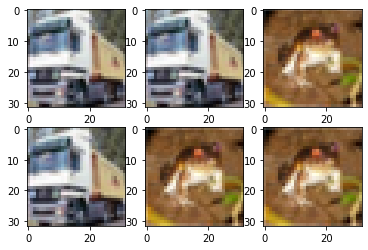
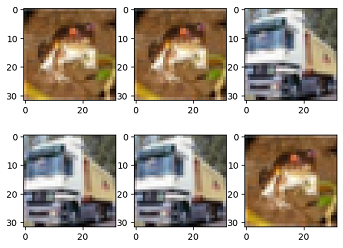
update en files and images in advanced

diff --git a/tutorials/source_en/advanced/dataset/sampler.md b/tutorials/source_en/advanced/dataset/sampler.md
@@ -1,12 +1,12 @@
-# Data Sampling
-
 <a href="https://gitee.com/mindspore/docs/blob/master/tutorials/source_en/advanced/dataset/sampler.md" target="_blank"><img src="https://mindspore-website.obs.cn-north-4.myhuaweicloud.com/website-images/master/resource/_static/logo_source_en.png"></a>
+
+# Data Sampling
 
 To meet training requirements and solve problems such as too large datasets or uneven distribution of sample categories, MindSpore provides multiple samplers for different purposes to help users sample datasets. Users only need to import the sampler object when loading the dataset to implement data sampling.
 
-MindSpore provides multiple samplers, such as `RandomSampler`, `WeightedRandomSampler`, and `SubsetRandomSampler`. In addition, users can customize samplers as required.
+MindSpore provides multiple samplers, such as `RandomSampler`, `WeightedRandomSampler`, and `SubsetRandomSampler`. In addition, users can customize sampler classes as required.
 
-> For details about how to use the sampler, see [API](https://www.mindspore.cn/docs/en/master/api_python/mindspore.dataset.html).
+> For details about how to use the sampler, see [Sampler API](https://www.mindspore.cn/docs/en/master/api_python/mindspore.dataset.html#sampler).
 
 ## Samplers
 
@@ -14,22 +14,27 @@ The following uses the CIFAR-10 dataset as an example to describe how to use sev
 
 ![cifar10](https://mindspore-website.obs.cn-north-4.myhuaweicloud.com/website-images/master/tutorials/source_zh_cn/advanced/dataset/images/cifar10.jpg)
 
-You need to download the dataset used in the example through the APIs provided by the [MindSpore Vision suite](https://mindspore.cn/vision/docs/en/master/index.html) and decompress the dataset to the specified location.
+Before introducing the sampler, we first download the dataset used in the example through the interface provided by [MindSpore Vision Suite](https://mindspore.cn/vision/docs/zh-CN/master/index.html) and unzip it to the specified location.
 
-> The sample code depends on `matplotlib` and `mindvision`, which can be installed using commands `pip install matplotlib` and `pip install mindvision`, respectively. If the code is run in Notebook, you need to restart the kernel after the installation to execute the subsequent code.
+> The sample code in this section relies on `matplotlib`, which can be installed with the command `pip install matplotlib`. If the code is run in Notebook, you need to restart the kernel after the installation to execute the subsequent code.
 
 ```python
-from mindvision import dataset
+from download import download
 
-dl_path = "./datasets"
-data_dir = "./datasets/cifar-10-batches-bin/"
-dl_url = "https://mindspore-website.obs.cn-north-4.myhuaweicloud.com/notebook/datasets/cifar-10-binary.tar.gz"
+url = "https://mindspore-website.obs.cn-north-4.myhuaweicloud.com/notebook/datasets/cifar-10-binary.tar.gz"
 
-dl = dataset.DownLoad()  # Download the CIFAR-10 dataset.
-dl.download_and_extract_archive(url=dl_url, download_path=dl_path)
+path = download(url, "./", kind="tar.gz", replace=True)
 ```
 
-The directory structure of the dataset file is as follows:
+```text
+Downloading data from https://mindspore-website.obs.cn-north-4.myhuaweicloud.com/notebook/datasets/cifar-10-binary.tar.gz (162.2 MB)
+
+file_sizes: 100%|████████████████████████████| 170M/170M [00:16<00:00, 10.4MB/s]
+Extracting tar.gz file...
+Successfully downloaded / unzipped to ./
+```
+
+The directory structure of the unpacked dataset file is as follows:
 
 ```text
 .
@@ -48,67 +53,63 @@ The directory structure of the dataset file is as follows:
 
 Randomly samples a specified amount of data from the index sequence.
 
-The following example uses RandomSampler to randomly sample five pieces of data from the dataset with and without replacement, and displays the data result. To observe the effect of samplers with and without replacement, a dataset with a small amount of data is customized.
+The following sample uses a random sampler to randomly sample 5 data from the dataset with and without replacement, and prints them for display. To observe the effect of samplers with and without replacement, a dataset with a small amount of data is customized.
 
 ```python
-import mindspore.dataset as ds
-
-ds.config.set_seed(0)
+from mindspore.dataset import RandomSampler, NumpySlicesDataset
 
 np_data = [1, 2, 3, 4, 5, 6, 7, 8]  # Dataset
 
 # Define a sampler with replacement to sample five pieces of data.
-sampler1 = ds.RandomSampler(replacement=True, num_samples=5)
-dataset1 = ds.NumpySlicesDataset(np_data, column_names=["data"], sampler=sampler1)
+sampler1 = RandomSampler(replacement=True, num_samples=5)
+dataset1 = NumpySlicesDataset(np_data, column_names=["data"], sampler=sampler1)
 
 print("With Replacement:    ", end='')
-for data in dataset1.create_tuple_iterator():
+for data in dataset1.create_tuple_iterator(output_numpy=True):
     print(data[0], end=' ')
 
 # Define a sampler without replacement to sample five pieces of data.
-sampler2 = ds.RandomSampler(replacement=False, num_samples=5)
-dataset2 = ds.NumpySlicesDataset(np_data, column_names=["data"], sampler=sampler2)
+sampler2 = RandomSampler(replacement=False, num_samples=5)
+dataset2 = NumpySlicesDataset(np_data, column_names=["data"], sampler=sampler2)
 
 print("\nWithout Replacement: ", end='')
-for data in dataset2.create_tuple_iterator():
+for data in dataset2.create_tuple_iterator(output_numpy=True):
     print(data[0], end=' ')
 ```
 
 ```text
-    With Replacement:    5 5 6 7 5
-    Without Replacement: 1 3 2 6 4
+    With Replacement: 4 5 6 6 1
+    Without Replacement: 4 1 5 6 2
 ```
 
 According to the preceding result, when the sampler with replacement is used, the same piece of data may be obtained for multiple times. When the sampler without replacement is used, the same piece of data can be obtained only once.
 
 ### WeightedRandomSampler
 
-Specifies the sampling probability list with the length N. A specified number of data is randomly sampled from the first N samples based on the probability.
+Specify the sampling probability list with the length N. A specified number of data is randomly sampled from the first N samples based on the probability.
 
 The following example uses WeightedRandomSampler to obtain six samples by probability from the first 10 samples in the CIFAR-10 dataset, and displays shapes and labels of the read data.
 
 ```python
 import math
 import matplotlib.pyplot as plt
-import mindspore.dataset as ds
+from mindspore.dataset import WeightedRandomSampler, Cifar10Dataset
 %matplotlib inline
 
-ds.config.set_seed(1)  # Set a random seed.
-
-DATA_DIR = "./datasets/cifar-10-batches-bin/"
+DATA_DIR = "./cifar-10-batches-bin/"
 
 # Specify the sampling probability of the first 10 samples and sample them.
 weights = [0.8, 0.5, 0, 0, 0, 0, 0, 0, 0, 0]
-sampler = ds.WeightedRandomSampler(weights, num_samples=6)
-dataset = ds.Cifar10Dataset(DATA_DIR, sampler=sampler)  # Load data.
+sampler = WeightedRandomSampler(weights, num_samples=6)
+dataset = Cifar10Dataset(DATA_DIR, sampler=sampler)  # Load data.
 
 def plt_result(dataset, row):
     """Display the sampling result."""
     num = 1
-    for data in dataset.create_dict_iterator():
+    for data in dataset.create_dict_iterator(output_numpy=True):
         print("Image shape:", data['image'].shape, ", Label:", data['label'])
         plt.subplot(row, math.ceil(dataset.get_dataset_size() / row), num)
-        image = data['image'].asnumpy()
+        image = data['image']
         plt.imshow(image, interpolation="None")
         num += 1
 
@@ -116,11 +117,11 @@ plt_result(dataset, 2)
 ```
 
 ```text
-    Image shape: (32, 32, 3) , Label: 9
-    Image shape: (32, 32, 3) , Label: 9
+    Image shape: (32, 32, 3) , Label: 6
     Image shape: (32, 32, 3) , Label: 6
     Image shape: (32, 32, 3) , Label: 9
-    Image shape: (32, 32, 3) , Label: 6
+    Image shape: (32, 32, 3) , Label: 9
+    Image shape: (32, 32, 3) , Label: 9
     Image shape: (32, 32, 3) , Label: 6
 ```
 
@@ -130,32 +131,28 @@ According to the preceding result, six pieces of data are randomly sampled from 
 
 ### SubsetRandomSampler
 
-Randomly samples a specified amount of data from the specified index subset.
+Randomly sample the specified number of pieces of sample data from the specified sample index subsequence.
 
 The following example uses SubsetRandomSampler to obtain three samples from the specified subset in the CIFAR-10 dataset, and displays shapes and labels of the read data.
 
 ```python
-import mindspore.dataset as ds
-
-ds.config.set_seed(2)  # Set a random seed.
-
-DATA_DIR = "./datasets/cifar-10-batches-bin/"  # Path for storing the CIFAR-10 dataset.
+from mindspore.dataset import SubsetRandomSampler
 
 # Specify a sample index subset.
 indices = [0, 1, 2, 3, 4, 5, 6, 7, 8, 9]
-sampler = ds.SubsetRandomSampler(indices, num_samples=6)
+sampler = SubsetRandomSampler(indices, num_samples=6)
 # Load data.
-dataset = ds.Cifar10Dataset(DATA_DIR, sampler=sampler)
+dataset = Cifar10Dataset(DATA_DIR, sampler=sampler)
 
 plt_result(dataset, 2)
 ```
 
 ```text
+    Image shape: (32, 32, 3) , Label: 9
     Image shape: (32, 32, 3) , Label: 1
-    Image shape: (32, 32, 3) , Label: 6
     Image shape: (32, 32, 3) , Label: 4
     Image shape: (32, 32, 3) , Label: 9
-    Image shape: (32, 32, 3) , Label: 9
+    Image shape: (32, 32, 3) , Label: 6
     Image shape: (32, 32, 3) , Label: 1
 ```
 
@@ -170,14 +167,11 @@ Samples K pieces of data from each category in the specified dataset P.
 The following example uses PKSampler to obtain 2 samples (up to 20 samples) from each category in the CIFAR-10 dataset, and displays shapes and labels of the read data.
 
 ```python
-import mindspore.dataset as ds
-
-ds.config.set_seed(3)  # Set a random seed.
-DATA_DIR = "./datasets/cifar-10-batches-bin/"  # Path for storing the CIFAR-10 dataset.
+from mindspore.dataset import PKSampler
 
 # 2 samples for each category, up to 10 samples.
-sampler = ds.PKSampler(num_val=2, class_column='label', num_samples=10)
-dataset = ds.Cifar10Dataset(DATA_DIR, sampler=sampler)
+sampler = PKSampler(num_val=2, class_column='label', num_samples=10)
+dataset = Cifar10Dataset(DATA_DIR, sampler=sampler)
 
 plt_result(dataset, 3)
 ```
@@ -201,19 +195,19 @@ According to the preceding result, the sampler obtains two samples for each labe
 
 ### DistributedSampler
 
-Samples dataset shards in distributed training.
+Samples dataset shards in the distributed training.
 
-The following example uses DistributedSampler to divide the built dataset into four shards, extract three samples from each shard, and display the read data.
+The following sample uses distributedsampler to divide the constructed dataset into 4 slices, take a sample in the each slice, sample 3 samples in total, and display the read data.
 
 ```python
-import mindspore.dataset as ds
+from mindspore.dataset import DistributedSampler
 
 # Customize the dataset.
 data_source = [0, 1, 2, 3, 4, 5, 6, 7, 8, 9, 10, 11]
 
-# Divide the built dataset into four shards, and extract three samples from each shard.
-sampler = ds.DistributedSampler(num_shards=4, shard_id=0, shuffle=False, num_samples=3)
-dataset = ds.NumpySlicesDataset(data_source, column_names=["data"], sampler=sampler)
+# Divide the constructed dataset into four slices, and sample 3 samples in total.
+sampler = DistributedSampler(num_shards=4, shard_id=0, shuffle=False, num_samples=3)
+dataset = NumpySlicesDataset(data_source, column_names=["data"], sampler=sampler)
 
 # Print the dataset.
 for data in dataset.create_dict_iterator():
@@ -226,19 +220,19 @@ for data in dataset.create_dict_iterator():
     {'data': Tensor(shape=[], dtype=Int64, value= 8)}
 ```
 
-According to the preceding result, the dataset is divided into four shards, and each shard has three samples. The samples in the shard whose ID is 0 are obtained this time.
+According to the preceding result, the dataset is divided into four slices, and each slice has three samples. The samples in the slice whose ID is 0 are obtained this time.
 
 ## Customized Sampler
 
 Users can inherit the `Sampler` base class and customize the sampling mode of the sampler by implementing the `__iter__` method.
 
-The following example defines a sampler with an interval of 2 samples from subscript 0 to subscript 9, applies the sampler to the customized dataset, and displays the read data.
+The following example defines a sampler with an interval of 2 samples from subscript 0 to subscript 9, takes the sampler as the customized dataset, and displays the read data.
 
 ```python
-import mindspore.dataset as ds
+from mindspore.dataset import Sampler, IterSampler
 
 # Customize a sampler.
-class MySampler(ds.Sampler):
+class MySampler(Sampler):
     def __iter__(self):
         for i in range(0, 10, 2):
             yield i
@@ -247,9 +241,9 @@ class MySampler(ds.Sampler):
 np_data = ['a', 'b', 'c', 'd', 'e', 'f', 'g', 'h', 'i', 'j', 'k', 'l']
 
 # Load data.
-sampler = ds.IterSampler(sampler=MySampler())
-dataset = ds.NumpySlicesDataset(np_data, column_names=["data"], sampler=sampler)
-for data in dataset.create_tuple_iterator():
+sampler = IterSampler(sampler=MySampler())
+dataset = NumpySlicesDataset(np_data, column_names=["data"], sampler=sampler)
+for data in dataset.create_tuple_iterator(output_numpy=True):
     print(data[0], end=' ')
 ```
 
